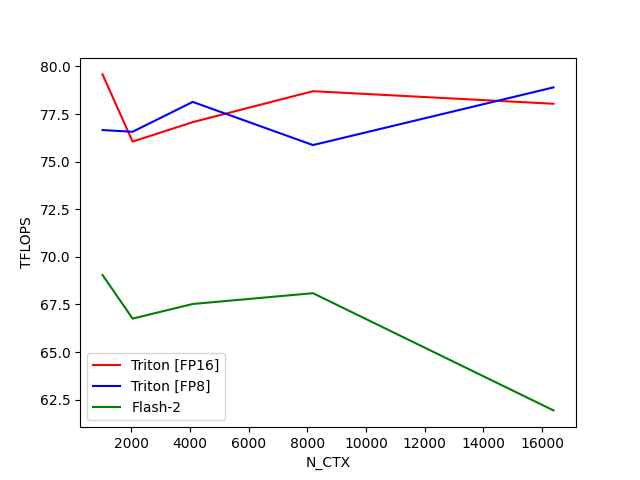
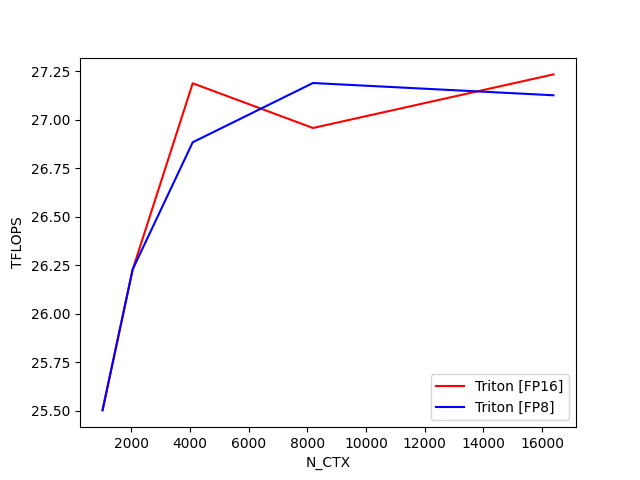
update 3060 flash_atten triton results

diff --git a/README.md b/README.md
@@ -1,6 +1,6 @@
 # Triton Practice
 
-tested on single NVIDIA A10
+tested on single NVIDIA A10 22G and 3060 6G
 
 examples: https://triton-lang.org/main/getting-started/tutorials/index.html
 
